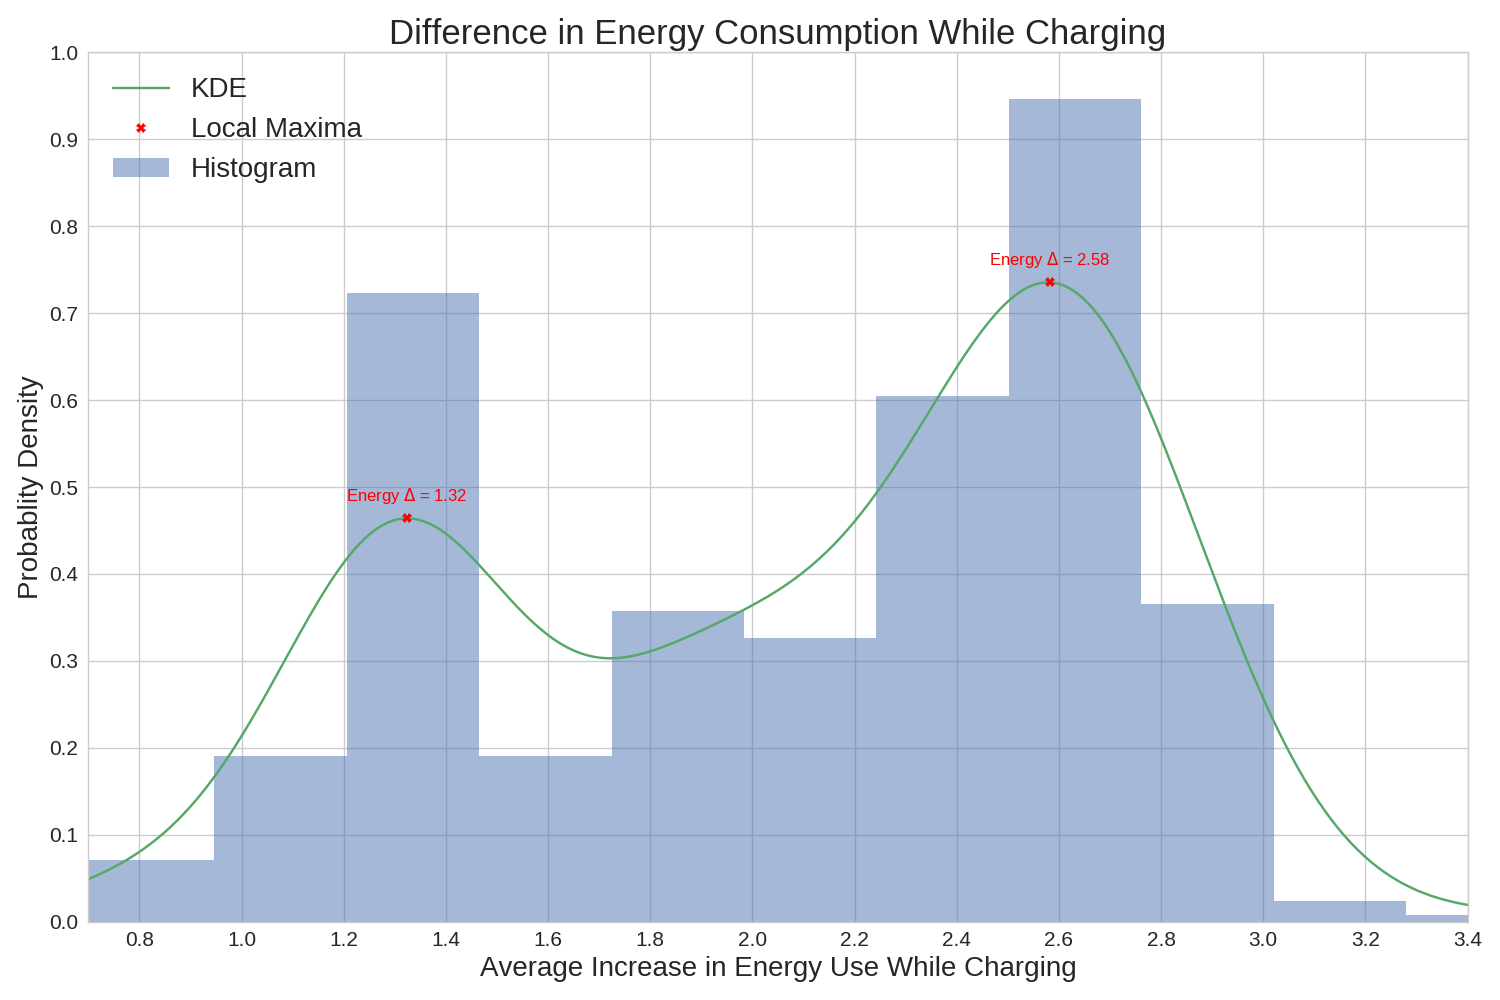
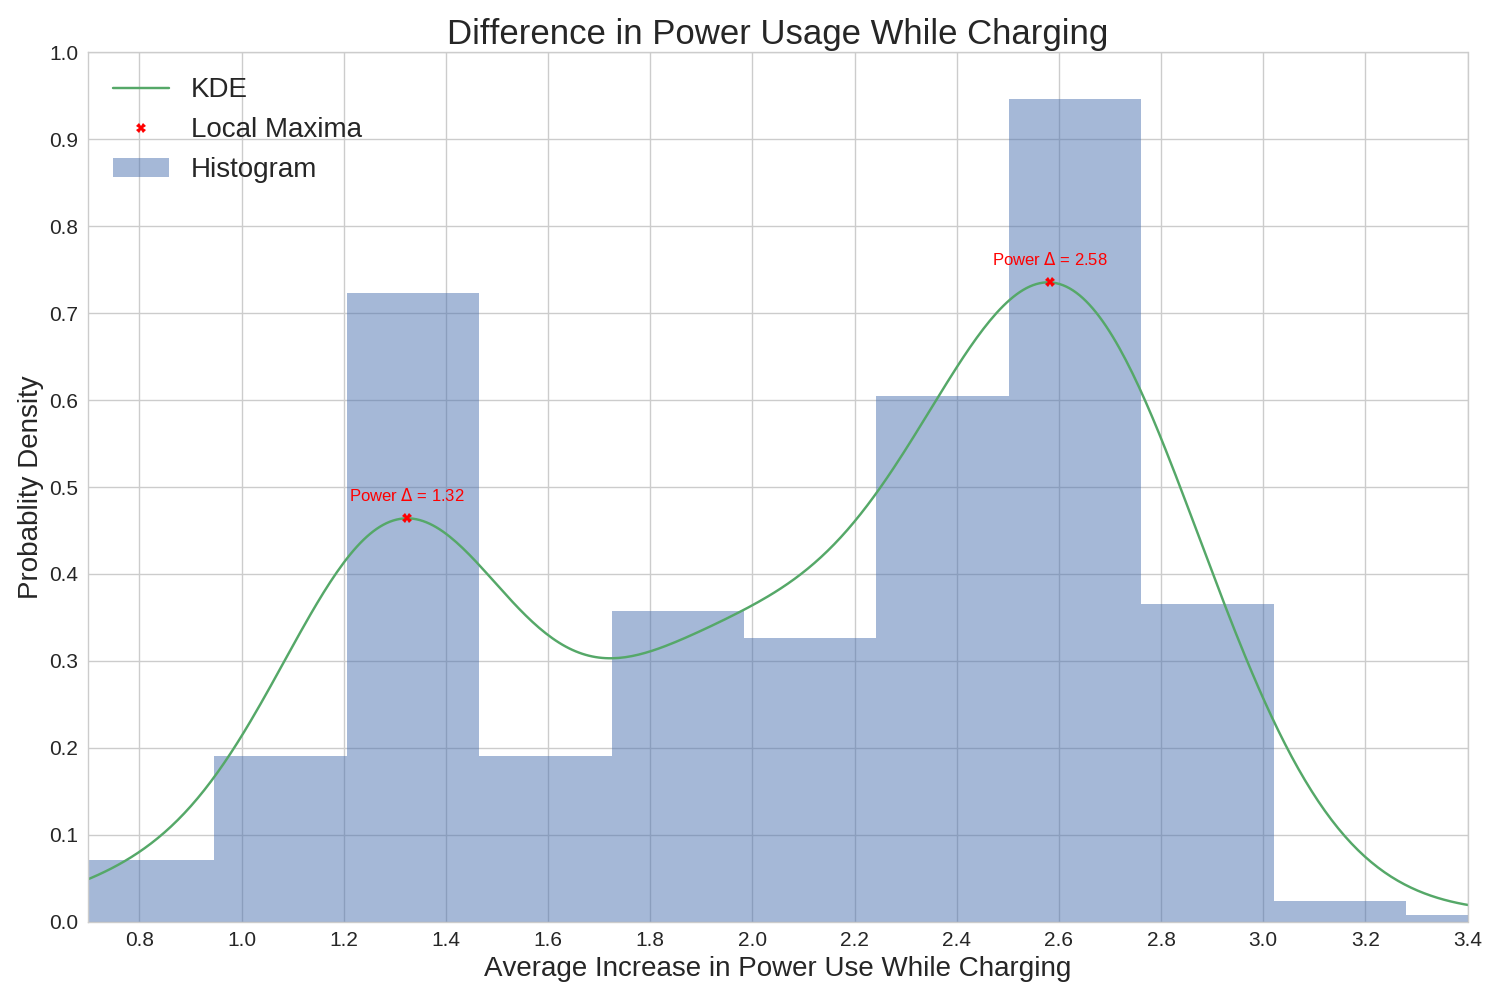
started data exploration section of readme and edited labels on some of the plots

diff --git a/eda_plots.py b/eda_plots.py
@@ -36,32 +36,32 @@ def dist_of_charging_vs_not():
     ax.plot(x_plot, kde_plot, label="KDE")
     ax.plot(x_plot[peak_indices], kde_plot[peak_indices], 'rX', label="Local Maxima")
 
-    text_string = "Energy $\Delta$ = {0}".format(np.round(x_plot[peak_indices[0]], 2))
+    text_string = "Power $\Delta$ = {0}".format(np.round(x_plot[peak_indices[0]], 2))
     ax.text(x_plot[peak_indices[0]], kde_plot[peak_indices[0]] + 0.02, text_string,
             fontdict = {"ha": "center", "color": "r"})
 
-    text_string = "Energy $\Delta$ = {0}".format(np.round(x_plot[peak_indices[1]], 2))
+    text_string = "Power $\Delta$ = {0}".format(np.round(x_plot[peak_indices[1]], 2))
     ax.text(x_plot[peak_indices[1]], kde_plot[peak_indices[1]] + 0.02, text_string,
             fontdict = {"ha": "center", "color": "r"})
 
     ax.set_xticks(np.arange(0,5,0.2))
     ax.set_xlim(0.7,3.4)
     # ax.set_xlim(0.7,3.6)
-    ax.set_xlabel("Average Increase in Energy Use While Charging", fontsize=20)
+    ax.set_xlabel("Average Increase in Power Use While Charging", fontsize=20)
 
     ax.set_yticks(np.arange(0,1.1,0.1))
     ax.set_ylim(0,1)
     ax.set_ylabel("Probablity Density", fontsize=20)
 
     ax.tick_params(axis='both', which='major', labelsize=15)
-    ax.set_title("Difference in Energy Consumption While Charging", fontsize=25)
+    ax.set_title("Difference in Power Usage While Charging", fontsize=25)
 
     ax.legend(fontsize=20, loc="upper left")
     plt.tight_layout()
     plt.savefig("images/eda/dist_of_charging_vs_not.png")
     fig.show()
 
-def average_energy_use(days=None, save_figure=False):
+def average_power_usage(days=None, save_figure=False):
     energy = np.mean(feature_matrix, axis=0)
     car_energy = np.mean(electric_car_features, axis=0)
     no_car_energy = np.mean(no_electric_car_features, axis=0)
@@ -89,8 +89,8 @@ def average_energy_use(days=None, save_figure=False):
     ax.set_xticks(np.arange(days[0], days[1]+2), minor=True)
     ax.xaxis.grid(True, which="minor")
     ax.xaxis.grid(False, which="major")
-    ax.set_ylabel("Energy", fontsize=20)
-    ax.set_title("Average Energy Use", fontsize=25)
+    ax.set_ylabel("Power", fontsize=20)
+    ax.set_title("Average Power Usage: Day {0} to Day {1}".format(days[0]+1, days[1]+1), fontsize=25)
 
     ax.tick_params(axis='both', which='major', labelsize=15)
 
@@ -98,11 +98,11 @@ def average_energy_use(days=None, save_figure=False):
 
     plt.tight_layout()
     if save_figure:
-        fig_name = "images/eda/average_energy_day{0}_to_day{1}.png".format(days[0]+1, days[1]+1)
+        fig_name = "images/eda/average_power_day{0}_to_day{1}.png".format(days[0]+1, days[1]+1)
         plt.savefig(fig_name)
     fig.show()
 
-def single_house_energy_use(house, days=None, save_figure=False):
+def single_house_power_usage(house, days=None, save_figure=False):
     house_id = features["House ID"][house].astype(int)
     energy = feature_matrix[house, :]
     charges = label_matrix[house, :]
@@ -125,25 +125,25 @@ def single_house_energy_use(house, days=None, save_figure=False):
     fig = plt.figure(figsize=(15,10))
     ax = fig.add_subplot(111)
 
-    ax.plot(time[increments[na:nb]], energy[na:nb], label="Energy Consumption")
+    ax.plot(time[increments[na:nb]], energy[na:nb], label="Power Usage")
     ax.plot(time[charge_ab], energy[charge_ab], 'o', label="Charge Points")
 
     ax.set_xlabel("Time (Days)", fontsize=20)
     ax.set_xticks(np.arange(days[0], days[1]+2), minor=True)
     ax.xaxis.grid(True, which="minor")
     ax.xaxis.grid(False, which="major")
-    ax.set_ylabel("Energy", fontsize=20)
-    ax.set_title("House {0} Energy Consumption".format(house_id), fontsize=25)
+    ax.set_ylabel("Power", fontsize=20)
+    ax.set_title("House {0} Power Usage: Day {1} to Day {2}".format(house_id, days[0]+1, days[1]+1), fontsize=25)
     ax.tick_params(axis='both', which='major', labelsize=15)
     ax.legend(fontsize=20)
 
     plt.tight_layout()
     if save_figure:
-        fig_name = "images/eda/house_{0}_energy_day{1}_to_day{2}.png".format(house_id, days[0]+1, days[1]+1)
+        fig_name = "images/eda/house_{0}_power_day{1}_to_day{2}.png".format(house_id, days[0]+1, days[1]+1)
         plt.savefig(fig_name)
     fig.show()
 
-def compare_ave_energy_use_to_cars_charging():
+def compare_ave_power_use_to_cars_charging():
     fig = plt.figure(figsize=(15,10))
     ax1 = fig.add_subplot(111)
 
@@ -151,7 +151,7 @@ def compare_ave_energy_use_to_cars_charging():
     time = increments/48.
     ax1.plot(time, np.mean(feature_matrix, axis=0), color="blue")
     ax1.set_xlabel("Time (Days)", fontsize=20, color="black")
-    ax1.set_ylabel("Average Energy Use", fontsize=20, color="blue")
+    ax1.set_ylabel("Average Power Usage", fontsize=20, color="blue")
     ax1.tick_params(axis='y', which='major', labelsize=15, colors="blue")
     ax1.tick_params(axis='x', which='major', labelsize=15, colors="black")
     ax1.yaxis.grid(False, which="both")
@@ -167,10 +167,10 @@ def compare_ave_energy_use_to_cars_charging():
     ax2.yaxis.grid(False, which="both")
     ax2.set_xlim(0,60)
 
-    ax1.set_title("Average Energy Use Compared to Number of Cars Charging", fontsize=25)
+    ax1.set_title("Average Power Usage Compared to Number of Cars Charging", fontsize=25)
 
     plt.tight_layout()
-    plt.savefig("images/eda/average_energy_cars_charging.png")
+    plt.savefig("images/eda/average_power_cars_charging.png")
     fig.show()
 
 if __name__ == '__main__':
@@ -195,9 +195,12 @@ if __name__ == '__main__':
     no_electric_car_labels = label_matrix[houses_without_electric_cars, :]
 
     # dist_of_charging_vs_not()
-    # average_energy_use(days=[42,59], save_figure=True)
-    # single_house_energy_use(houses_with_electric_cars[0], [0,20], save_figure=True)
-    # single_house_energy_use(houses_with_electric_cars[0], [21,41], save_figure=True)
-    # single_house_energy_use(houses_with_electric_cars[0], [42,59], save_figure=True)
+    # compare_ave_power_use_to_cars_charging()
+    # average_power_usage(days=None, save_figure=True)
+    # average_power_usage(days=[0,20], save_figure=True)
+    # average_power_usage(days=[21,41], save_figure=True)
+    # average_power_usage(days=[42,59], save_figure=True)
 
-    compare_ave_energy_use_to_cars_charging()
+    single_house_power_usage(houses_with_electric_cars[2], [0,20], save_figure=False)
+    single_house_power_usage(houses_with_electric_cars[2], [21,41], save_figure=False)
+    single_house_power_usage(houses_with_electric_cars[2], [42,59], save_figure=False)

diff --git a/README.md b/README.md
@@ -1,15 +1,83 @@
-# Electric Car Charging Analysis
+# Electric Vehicle Detection
 
 ## Abstract
-
-## Data Set
-
-## Problem
+This project and data set came from the Boulder, CO based company, <a href="https://www.gridcure.com/">GridCure<a>.
+The training data contains smart meter power readings for 1,590 houses over a 60
+day time span at half-hour time intervals.  Along with the power readings, there
+is a set of binary data labels for each house and time interval that identify whether
+or not an electric vehicle is charging.  The goal is to develop a model that predicts
+the probability that an electric vehicle is charging on a test data set with
+power readings for 699 houses across the same time intervals.  The full description
+of the problem provided by GridCure can be seen <a href="https://github.com/jbhersch/electric_car/blob/master/data/README.md">here</a>.
 
 ## Data Exploration
+A good place to start when examining general trends in the relationship between
+power usage and when electric vehicles are being charged is to examine the average
+power usage and the total number of houses with vehicles charging at every time
+increment in the training data.  This is shown in the plot below, with the average
+power usage shown in blue and the number of vehicles charing shown in red.
+
+The x-axis grid lines separate days across the time span and it is clear that
+the spikes in the number of cars that are charging tend to occur in two day bursts.
+These spikes most likely indicate the weekends, which is a trend in the data that
+will be examined in more detail.  Another aspect of this plot to notice is that
+spikes in power usage don't necessarily indicate spikes in the number of cars
+being charged.  
+
+<img src="images/eda/average_power_cars_charging.png" width="1000" height = "600" />
+
+
+The next plot compares the average power usage of all houses with the average power
+usage of houses with electric vehicles and the average power usage of houses without
+electric vehicles.  Similar to the previous plot, there are clear two day power spikes
+that occur periodically throughout the time span that are captured by the averages on
+all the houses and the houses with electric cars.  
+
+<img src="images/eda/average_power_day1_to_day60.png" width="1000" height = "600" />
+
+Since there are so many time intervals in this data set (2,880 half hour intervals),
+the behavior of the average power consumption is easier to describe when examined
+over smaller time intervals.  The next three plots once again show the average
+power for all houses, houses with electric cars, and houses without electric cars,
+but they are broken up into periods of roughly three weeks.  
+
+The plot describing day 1 to day 21 is shown first.  Notice that the first three days
+all show spikes in power usage for houses with electric vehicles.  This most likely
+indicates that day 1 was a Friday and also a holiday.  The remaining four days with
+power spikes on houses with electric vehicles would fall on Saturdays and Sundays
+under the assumption that day 1 is a Friday.
+
+<img src="images/eda/average_power_day1_to_day21.png" width="1000" height = "600" />
+
+Looking at day 22 to day 42, the hypothesis that the power spikes occur on weekends
+and that day 1 is a Friday appears to hold true.  If day 1 is a Friday, then day 22
+would also be a Friday, and notice there is not a spike on day 22.  However, days 23
+and 24, which would be Saturday and Sunday respectively, do show power spikes.  Furthermore,
+there are four more power spikes in the last two weeks shown in the plot and they
+also fall on weekends assuming that day 1 is a Friday.
+
+<img src="images/eda/average_power_day22_to_day42.png" width="1000" height = "600" />
+
+The final average power usage plot showing day 43 to 60 continues to support the
+weekend power spike hypothesis.  Eighteen days are shown here (as opposed to the
+21 days shown in the previous two plots) with six of them showing power spikes,
+all of which occur on weekends following the assumption that day 1 is a Friday.
+Breaking the average power usage plots into three periods of roughly three weeks
+provides strong evidence to support the hypothesis that the first day of power usage
+shown in the data is a Friday, which happened to be a holiday, and that people
+tend to charge their electric vehicles in higher volume on the weekends.
+
+<img src="images/eda/average_power_day43_to_day60.png" width="1000" height = "600" />
+<img src="images/eda/house_11647239_power_day1_to_day21.png" width="1000" height = "600" />
+<img src="images/eda/house_11647239_power_day22_to_day42.png" width="1000" height = "600" />
+<img src="images/eda/house_11647239_power_day43_to_day60.png" width="1000" height = "600" />
+<img src="images/eda/dist_of_charging_vs_not.png" width="1000" height = "600" />
 
 ## Model Building
 
 ## Model Performance
-
-<img src="images/eda/dist_of_charging_vs_not.png" width="1000" height = "600" />
+<img src="images/model_metrics/logistic_regression_model_metrics.png" width="1000" height = "600" />
+<img src="images/model_metrics/lda_model_metrics.png" width="1000" height = "600" />
+<img src="images/model_metrics/gradient_boost_model_metrics.png" width="1000" height = "600" />
+<img src="images/model_metrics/random_forest_model_metrics.png" width="1000" height = "600" />
+<img src="images/model_metrics/roc_curve.png" width="1000" height = "600" />
